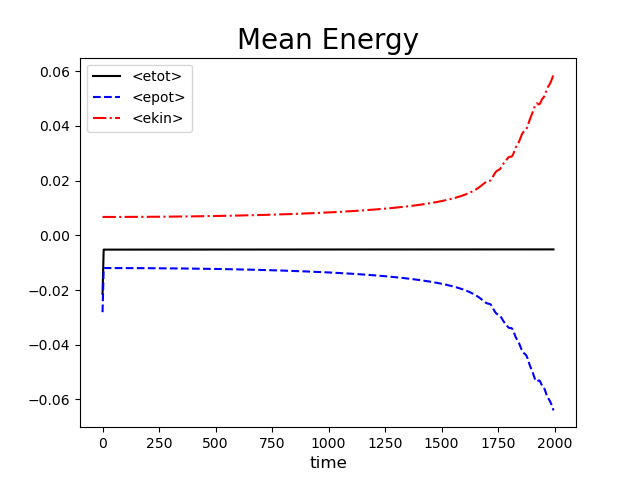
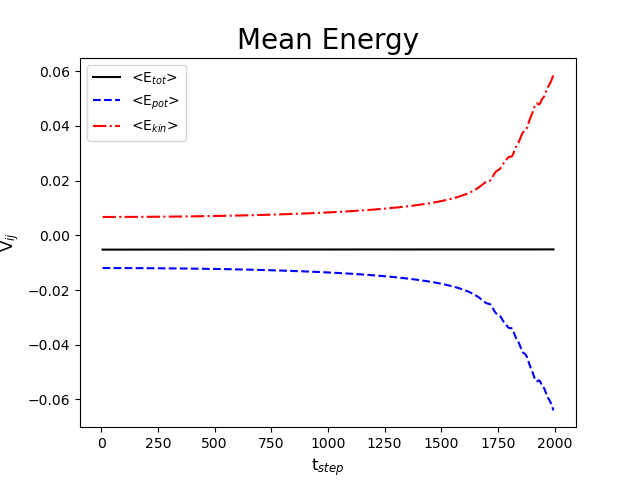
Update energy output

diff --git a/plot.py b/plot.py
@@ -11,6 +11,7 @@ if os.path.exists('./phys_output.dat'):
 
   file_output = open('phys_output.dat', 'r')
   next(file_output)
+  next(file_output)
   for line in file_output:
     values = [float(s) for s in line.split()]
     time.append(values[0])
@@ -18,12 +19,12 @@ if os.path.exists('./phys_output.dat'):
     epot.append(values[2])
     ekin.append(values[3])
 
-  plt.plot(time, etot, '-k', label = '<etot>',c ='black')
-  plt.plot(time, epot, '--k', label = '<epot>', c ='blue')
-  plt.plot(time, ekin, '-.k', label = '<ekin>', c = 'red')
+  plt.plot(time, etot, '-k', label = '<E$_{tot}$>',c ='black')
+  plt.plot(time, epot, '--k', label = '<E$_{pot}$>', c ='blue')
+  plt.plot(time, ekin, '-.k', label = '<E$_{kin}$>', c = 'red')
     
-  plt.xlabel('time', fontsize = 12)
-  plt.ylabel('', fontsize = 12)
+  plt.xlabel('$t_{step}$', fontsize = 12)
+  plt.ylabel('V$_{ij}$', fontsize = 12)
     
   plt.title('Mean Energy', fontsize = 20)
   plt.legend()
